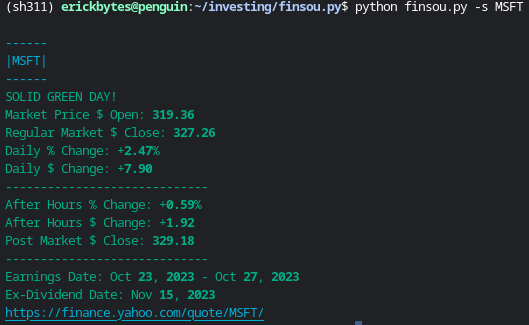
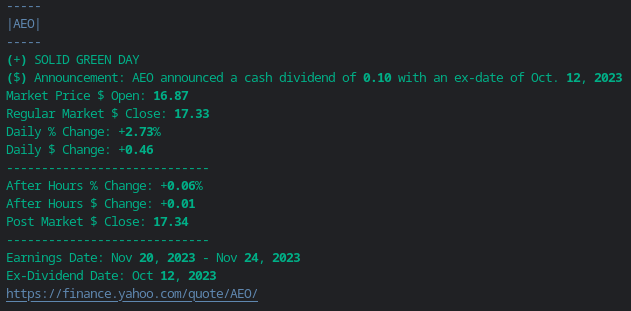
changed stock summary example image on README

diff --git a/README.md b/README.md
@@ -15,7 +15,7 @@ The finsou.py CLI uses Python's html.parser + Beautiful Soup + regex to parse Ya
 
 **Example Stock Summary**
 
-`python finsou.py -s MSFT`
+`python finsou.py -s AEO`
 
 ![stock summary example](stock-summary-example.png "Fetch a Stock Summary")
 
